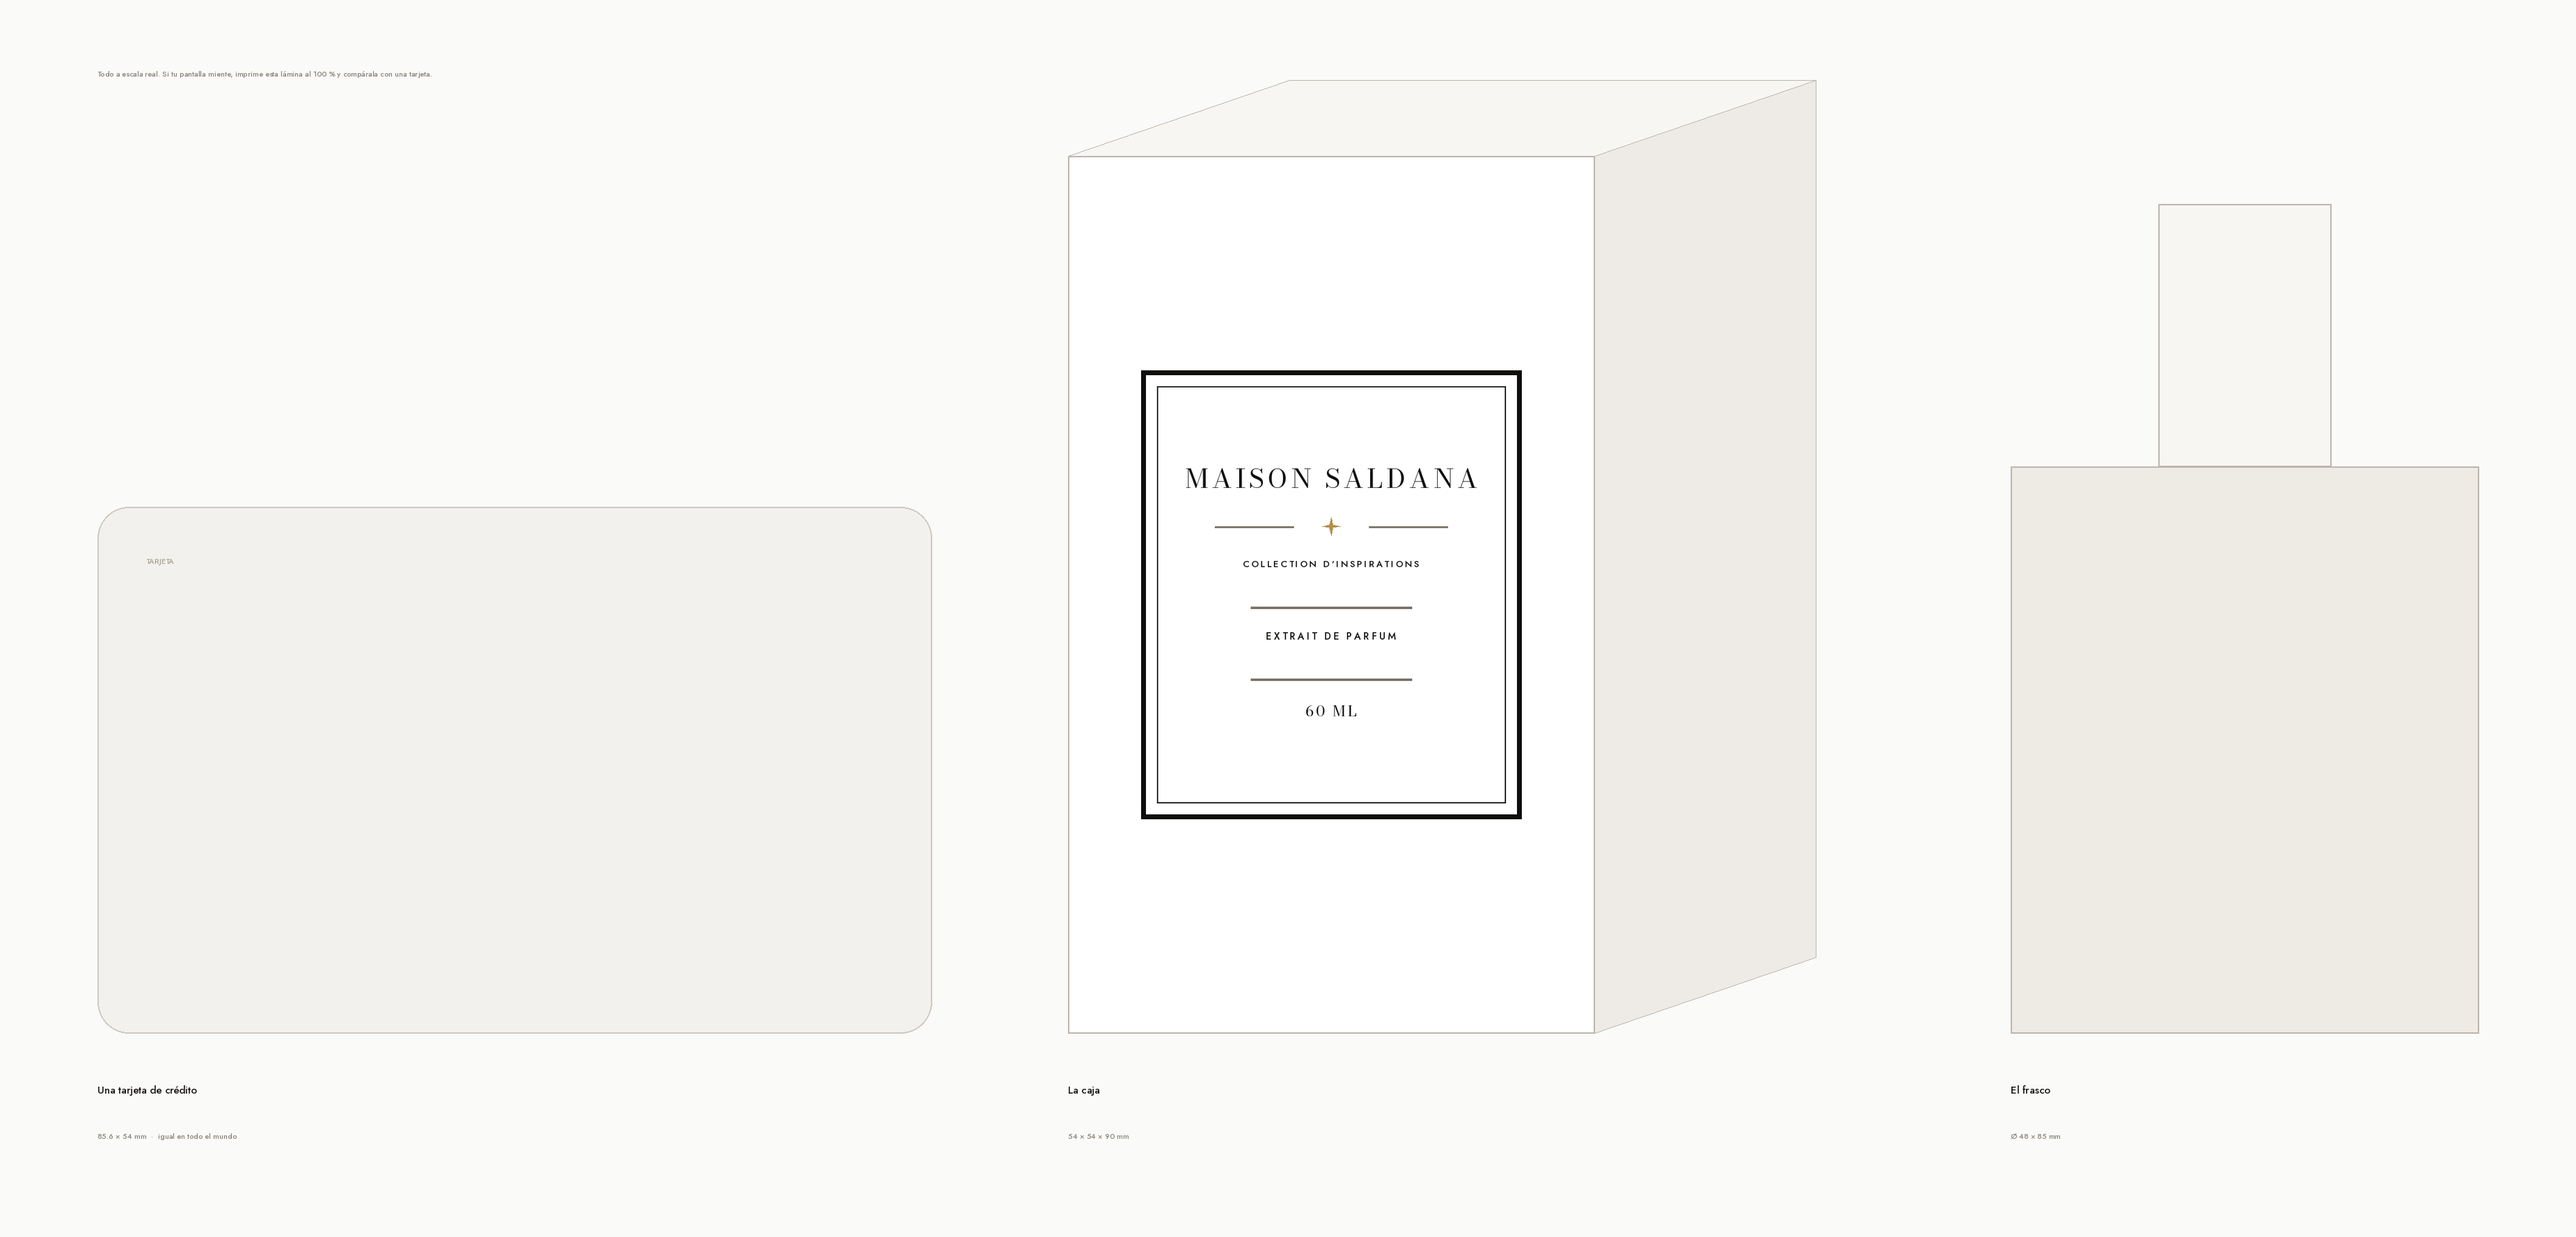
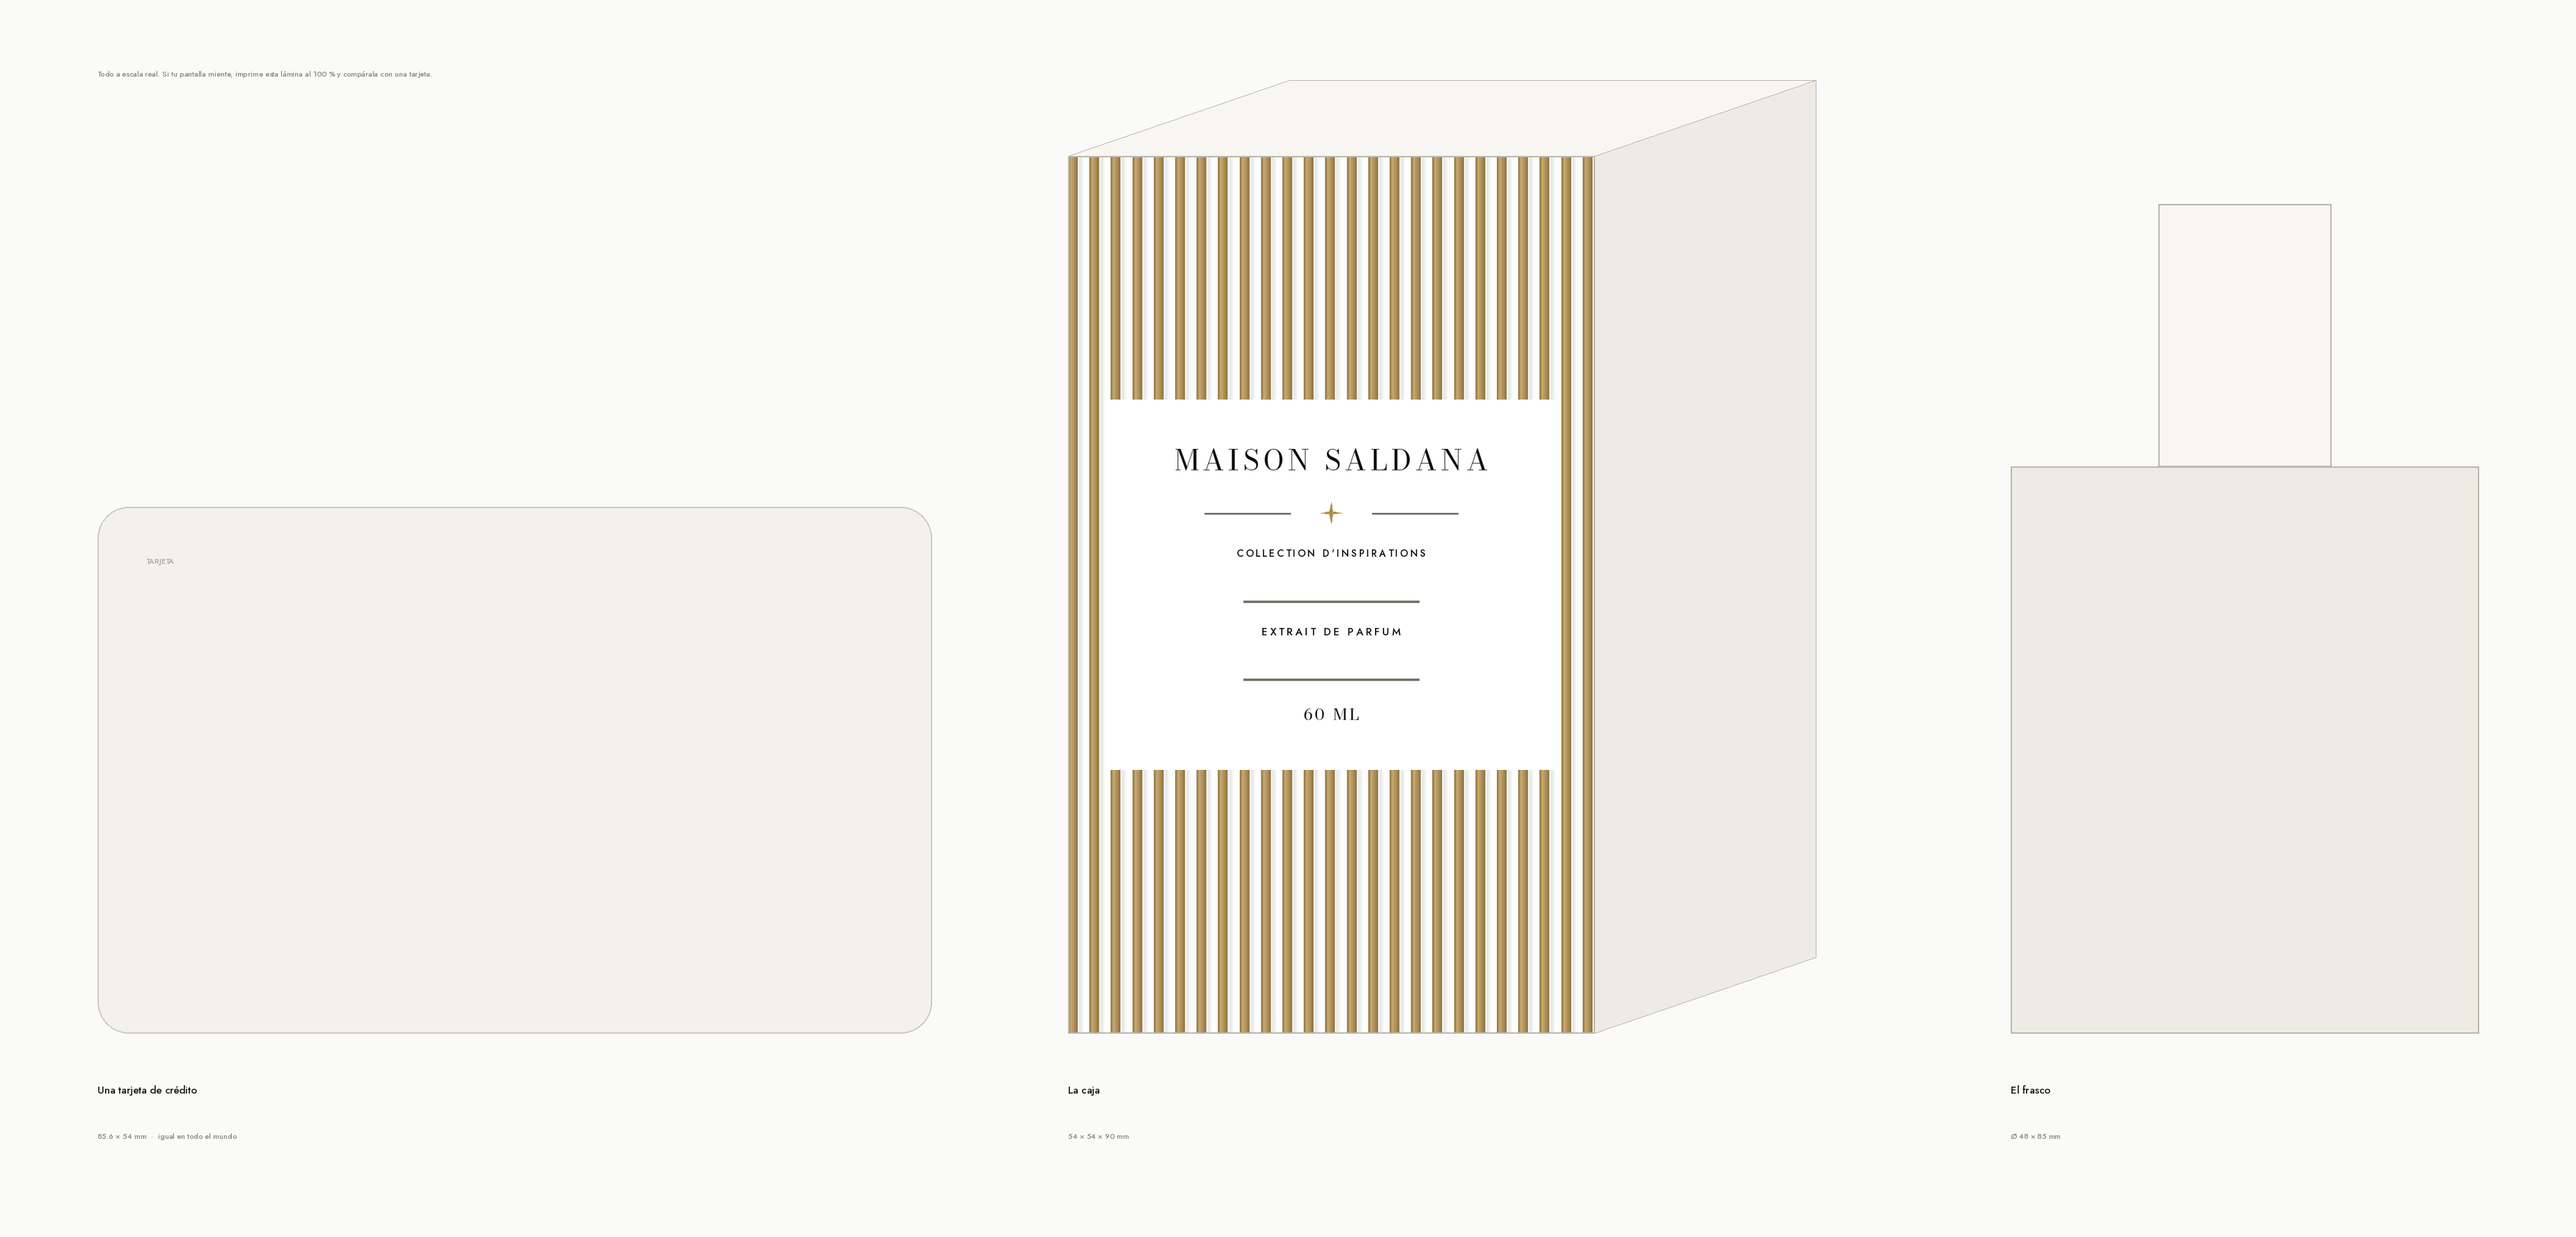
La estría pasa a oro: estampado combinado de lámina y relieve
Pidió las estrías doradas. Eso no es cambiar un color: es cambiar de
técnica. El relieve seco no lleva nada encima; el oro es una lámina
que se estampa en caliente. Juntos se hacen con TROQUEL COMBINADO,
que estampa y hunde en la misma pasada.

Y combinado, no dos pasadas: hacer coincidir dos matrices distintas
sobre crestas de 1 mm no sale. Medio milímetro de desvío y el oro
queda a caballo entre la cresta y el valle. Con una sola matriz el
registro es perfecto por construcción.

TRES REPARTOS, en oro.png, porque la cantidad de oro es una decisión
y no da igual:
  1  Estría completa, oro mate. 45 % de la cara, 66 cm² de lámina
     por caja. Es lo que pidió.
  2  La misma, en oro brillante. Mismo coste. Con 25 estrías, el
     brillo tira a papel de regalo. No la recomiendo.
  3  Oro solo en el tercio de arriba y el de abajo. 23 % de la cara,
     la mitad de lámina. El oro enmarca y el centro respira. Es la
     que recomiendo.
La lámina va dibujada con su reflejo cruzando la cresta, no como un
relleno plano: un foil es metal y lo que se ve es el brillo moviéndose.

Por defecto queda puesta la 1, que es lo que pidió. Cambiar de reparto
es cambiar una línea.

LA FICHA DE IMPRENTA, rehecha para el oro: cómo se pide el estampado
combinado, por qué no valen dos pasadas, la matriz calefactada, mate
contra brillante, los tres repartos con su consumo de lámina, y dos
avisos nuevos — que la estría y su relieve van en UNA SOLA capa del
[…]

Changed region(s): [[0.4041, 0.1238, 0.6216, 0.8357], [0.4973, 0.5571, 0.5284, 0.5881]]

diff --git a/marca/empaque/oro.py b/marca/empaque/oro.py
@@ -1,0 +1,153 @@
+"""La estría en oro: foil y relieve a la vez, y cuánto oro es demasiado.
+
+Pedir la estría dorada no es pedir otro color: es cambiar de técnica.
+El relieve seco no lleva nada encima; el oro es una lámina que se
+estampa en caliente. Las dos cosas juntas se hacen con un TROQUEL
+COMBINADO, que estampa y hunde en la misma pasada.
+
+Aquí se dibujan tres repartos de oro para poder elegir con los ojos,
+y las dos calidades de lámina —mate y brillante— que es la decisión
+que de verdad cambia si la caja parece una casa de perfume o un papel
+de regalo.
+"""
+from PIL import Image, ImageDraw, ImageFont
+import numpy as np
+import importlib.util
+import sys
+import os
+
+F = "/tmp/claude-0/-home-user-maisonsaldana/ea3b086e-04ac-5a0b-b7d0-5c4540eaa5c0/scratchpad/fuentes"
+BODONI, JOST = f"{F}/bodoni-1.ttf", f"{F}/jost-3236.ttf"
+SALIDA = os.path.dirname(os.path.abspath(__file__))
+
+spec = importlib.util.spec_from_file_location("denso", f"{SALIDA}/denso.py")
+denso = importlib.util.module_from_spec(spec)
+sys.modules["denso"] = denso
+spec.loader.exec_module(denso)
+
+PPM = 20
+W, H = 54, 90
+PASO, CRESTA = 2.2, 1.0
+VENTANA = (4.0, 25.0, W - 4.0, 63.0)
+
+# Un foil no es un color plano: es metal, y lo que se ve es el reflejo
+# cruzando la cresta. Por eso cada estría se pinta con un degradado,
+# no con un relleno.
+ORO_MATE = ((198, 170, 112), (146, 117, 64), (176, 146, 92))   # luz, sombra, medio
+ORO_BRILLO = ((248, 232, 176), (134, 98, 36), (214, 178, 96))
+
+
+def mm(v):
+    return int(round(v * PPM))
+
+
+def ft(r, pt):
+    return ImageFont.truetype(r, max(5, int(round(pt * 0.3528 * PPM))))
+
+
+def cara(paleta=ORO_MATE, oro=True, ventana=True):
+    luz, sombra, medio = paleta
+    alto, ancho = mm(H), mm(W)
+    lienzo = np.full((alto, ancho, 3), 255.0)
+
+    x = 0.0
+    while x < W:
+        c0, c1 = mm(x), min(mm(x + CRESTA), ancho)
+        if c1 > c0:
+            t = np.linspace(0, 1, c1 - c0)
+            if oro:
+                # reflejo metálico cruzando la cresta: claro donde pega la
+                # luz, oscuro en el canto opuesto
+                mezcla = np.empty((c1 - c0, 3))
+                for k in range(3):
+                    mezcla[:, k] = np.interp(t, [0, 0.28, 0.62, 1.0],
+                                             [sombra[k], luz[k], medio[k], sombra[k]])
+                lienzo[:, c0:c1] = mezcla[None, :, :]
+            else:
+                lienzo[:, c0:c1] = 255.0
+        # el valle: papel blanco con la sombra del canto
+        v0, v1 = mm(x + CRESTA), min(mm(x + PASO), ancho)
+        if v1 > v0:
+            t = np.linspace(0, 1, v1 - v0)
+            lienzo[:, v0:v1] -= (np.exp(-((t - 0.2) ** 2) / 0.05) * 22)[None, :, None]
+        x += PASO
+
+    if ventana:
+        x0, y0, x1, y1 = (mm(VENTANA[0]), mm(VENTANA[1]), mm(VENTANA[2]), mm(VENTANA[3]))
+        lienzo[y0:y1, x0:x1] = 255.0
+
+    im = Image.fromarray(np.clip(lienzo, 0, 255).astype(np.uint8))
+    d = ImageDraw.Draw(im)
+    guarda = denso.PPM
+    denso.PPM = PPM
+    denso.pila(d, 29.0)
+    denso.PPM = guarda
+    return im
+
+
+def media_cara(paleta):
+    """Oro solo en el tercio de arriba y el de abajo; el centro, en blanco."""
+    im = cara(paleta)
+    blanco = cara(paleta, oro=False)
+    a, b = np.asarray(im).astype(float), np.asarray(blanco).astype(float)
+    a[mm(22):mm(66)] = b[mm(22):mm(66)]
+    return Image.fromarray(np.clip(a, 0, 255).astype(np.uint8))
+
+
+def detalle(im, x_mm=6, y_mm=70, lado=10, aum=5):
+    c = im.crop((mm(x_mm), mm(y_mm), mm(x_mm + lado), mm(y_mm + lado)))
+    return c.resize((mm(lado * aum), mm(lado * aum)), Image.LANCZOS)
+
+
+# ================================================================= lámina
+op = [
+    (cara(ORO_MATE), "1 · Oro mate, estría completa",
+     ["Lo que pediste. Troquel combinado: estampa y hunde",
+      "en la misma pasada, así que el oro cae clavado en la cresta.",
+      "46 % de la cara cubierta de lámina."]),
+    (cara(ORO_BRILLO), "2 · Oro brillante",
+     ["La misma estría con lámina brillante en vez de mate.",
+      "Mírala al lado de la otra: aquí está la decisión.",
+      "Mismo coste, resultado muy distinto."]),
+    (media_cara(ORO_MATE), "3 · Oro mate, solo arriba y abajo",
+     ["El oro enmarca y el centro respira.",
+      "La mitad de lámina y la mitad de riesgo.",
+      "23 % de la cara cubierta."]),
+]
+
+MG, HU = mm(14), mm(16)
+LADO, AUM = 10, 5
+Wl = MG * 2 + mm(W) * 3 + HU * 2 + mm(LADO * AUM) + HU
+Hl = MG * 2 + mm(H) + mm(22)
+lam = Image.new("RGB", (Wl, Hl), (250, 250, 249))
+d = ImageDraw.Draw(lam)
+f_t = ImageFont.truetype(JOST, mm(2.9))
+f_p = ImageFont.truetype(JOST, mm(2.1))
+
+for i, (im, tit, notas) in enumerate(op):
+    x = MG + i * (mm(W) + HU)
+    y = MG + mm(7)
+    d.text((x, MG), tit, font=f_t, fill=(28, 26, 22))
+    lam.paste(im, (x, y))
+    d.rectangle([x - 1, y - 1, x + mm(W), y + mm(H)], outline=(208, 203, 196))
+    for k, n in enumerate(notas):
+        d.text((x, y + mm(H) + mm(4 + k * 3.4)), n, font=f_p,
+               fill=(108, 102, 94) if k < 2 else (158, 151, 142))
+
+cx = MG + 3 * (mm(W) + HU)
+d.text((cx, MG), f"Mate y brillante, × {AUM}", font=f_t, fill=(28, 26, 22))
+lam.paste(detalle(op[0][0], lado=LADO, aum=AUM), (cx, MG + mm(7)))
+d.text((cx, MG + mm(7) + mm(LADO * AUM) + mm(3)), "mate", font=f_p, fill=(108, 102, 94))
+y2 = MG + mm(7) + mm(LADO * AUM) + mm(9)
+lam.paste(detalle(op[1][0], lado=LADO, aum=AUM), (cx, y2))
+d.text((cx, y2 + mm(LADO * AUM) + mm(3)), "brillante", font=f_p, fill=(108, 102, 94))
+
+lam.save(f"{SALIDA}/oro.png")
+cara(ORO_MATE).save(f"{SALIDA}/frente-a-estria-oro.png")
+media_cara(ORO_MATE).save(f"{SALIDA}/frente-a-estria-oro-marco.png")
+
+cobertura = (CRESTA / PASO) * 100
+print("oro:", lam.size, "=", round(Wl / PPM), "×", round(Hl / PPM), "mm")
+print(f"cobertura de lámina en la cara: {cobertura:.0f} %")
+area = 3 * W * H * cobertura / 100
+print(f"foil por caja (frente + 2 costados): {area:.0f} mm² = {area/100:.0f} cm²")

diff --git a/marca/empaque/denso.py b/marca/empaque/denso.py
@@ -89,23 +89,44 @@ def cara():
 
 
 # =========================================================== A · LA ESTRÍA
+# Estampado combinado: la lámina dorada y el hundido salen de la misma
+# matriz, en una pasada. Por eso el oro cae clavado en la cresta y el
+# valle se queda en blanco del papel. La lámina va MATE: con 25 estrías
+# doradas, el oro brillante tira a papel de regalo.
+ORO_FOIL = ((198, 170, 112), (146, 117, 64), (176, 146, 92))   # luz, sombra, medio
+
+
 def a_estria():
-    im, d = cara()
-    # Geometría de gofrado, no de dibujo: paso 2,2 con cresta de 1,0.
-    # Por debajo de 0,8 mm de cresta el latón del troquel no aguanta
-    # y la fibra del cartón revienta. Son 25 estrías en la cara.
-    paso, grosor = 2.2, 1.0
-    x = paso / 2
+    import numpy as np
+    paso, cresta = 2.2, 1.0
+    luz, sombra, medio = ORO_FOIL
+    alto, ancho = mm(H), mm(W)
+    lienzo = np.full((alto, ancho, 3), 255.0)
+
+    x = 0.0
     while x < W:
-        d.rectangle([mm(x), 0, mm(x) + max(1, int(grosor * PPM)), mm(H)], fill=ESTRIA)
+        c0, c1 = mm(x), min(mm(x + cresta), ancho)
+        if c1 > c0:                       # la cresta, con su reflejo metálico
+            tr = np.linspace(0, 1, c1 - c0)
+            mezcla = np.empty((c1 - c0, 3))
+            for k in range(3):
+                mezcla[:, k] = np.interp(tr, [0, 0.28, 0.62, 1.0],
+                                         [sombra[k], luz[k], medio[k], sombra[k]])
+            lienzo[:, c0:c1] = mezcla[None, :, :]
+        v0, v1 = mm(x + cresta), min(mm(x + paso), ancho)
+        if v1 > v0:                       # el valle, papel con la sombra del canto
+            tr = np.linspace(0, 1, v1 - v0)
+            lienzo[:, v0:v1] -= (np.exp(-((tr - 0.2) ** 2) / 0.05) * 22)[None, :, None]
         x += paso
-    # ventana limpia donde se apoya el texto, como el vidrio liso bajo la etiqueta
-    d.rectangle([mm(4), mm(25), mm(W - 4), mm(63)], fill=BLANCO)
-    pila(d, 29.0)
+
+    # la ventana del texto: plana y sin lámina, para que la letra se lea
+    lienzo[mm(25):mm(63), mm(4):mm(W - 4)] = 255.0
+    im = Image.fromarray(np.clip(lienzo, 0, 255).astype(np.uint8))
+    pila(ImageDraw.Draw(im), 29.0)
     return im, "A · La estría", [
-        "La estría del frasco, GOFRADA: se siente con el dedo.",
-        "25 estrías de 2,2 mm. Sin tinta: es el cartón empujado.",
-        "1 tinta + gofrado + foil en el fleurón."]
+        "La estría del frasco, en oro mate y GOFRADA a la vez.",
+        "Una sola matriz estampa y hunde: se ve y se siente.",
+        "1 tinta + estampado combinado (foil + relieve)."]
 
 
 # ========================================================= B · LA ETIQUETA

diff --git a/marca/empaque/escala.py b/marca/empaque/escala.py
@@ -54,7 +54,8 @@ d.text((tx, SUELO + mm(10)), f"{TARJ_W} × {TARJ_H} mm  ·  igual en todo el mun
 # ---------- 2. la caja cerrada, en perspectiva ligera --------------------
 cx = tx + mm(TARJ_W + 14)
 cy = MG
-frente = denso.b_etiqueta()[0].resize((mm(CAJA_W), mm(CAJA_H)), Image.LANCZOS)
+# La opción elegida: A, la estría en oro.
+frente = denso.a_estria()[0].resize((mm(CAJA_W), mm(CAJA_H)), Image.LANCZOS)
 lam.paste(frente, (int(cx), int(cy)))
 d.rectangle([cx, cy, cx + mm(CAJA_W), SUELO], outline=(188, 182, 174), width=2)
 
